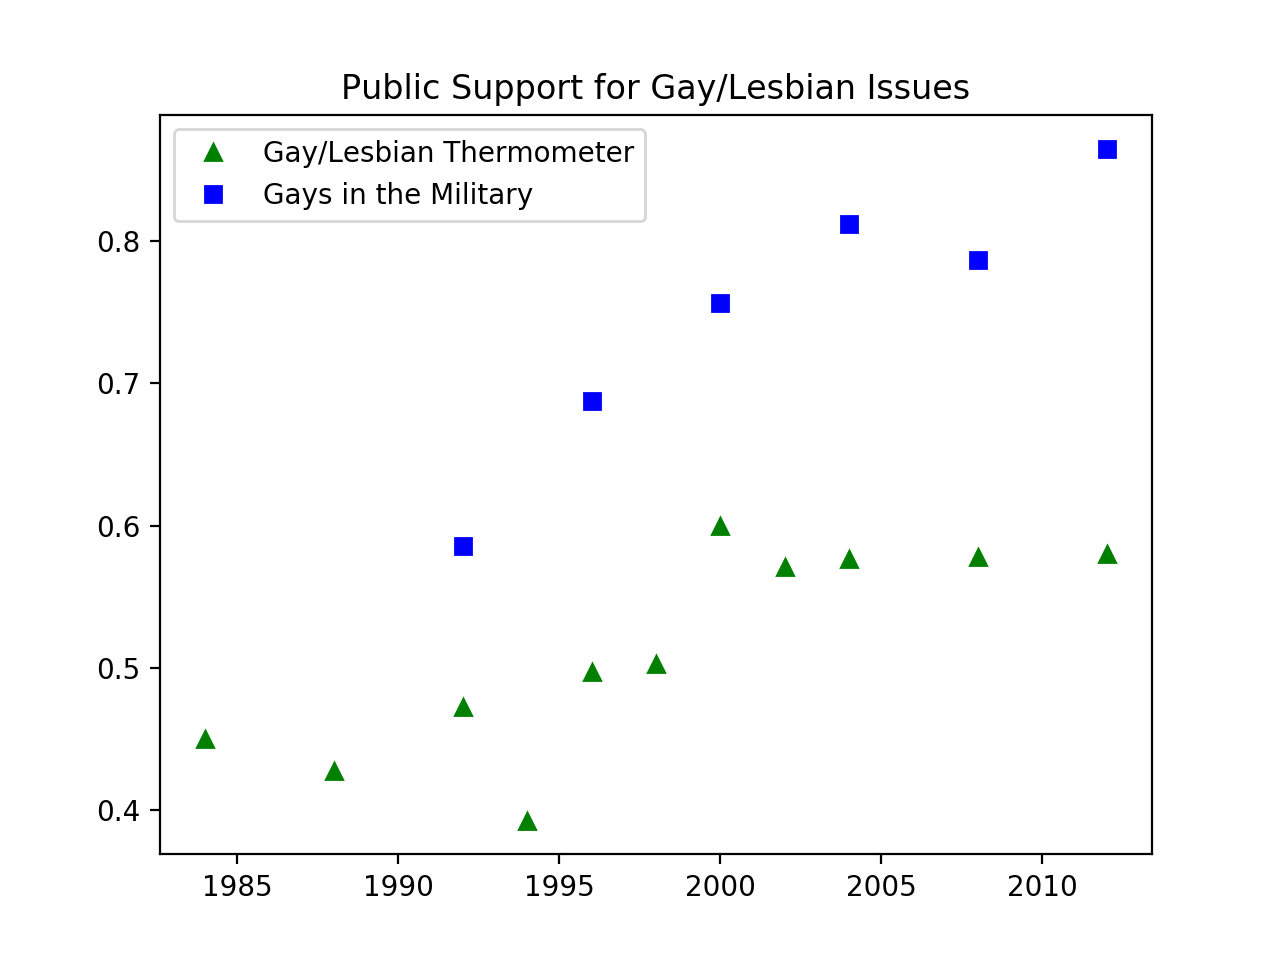
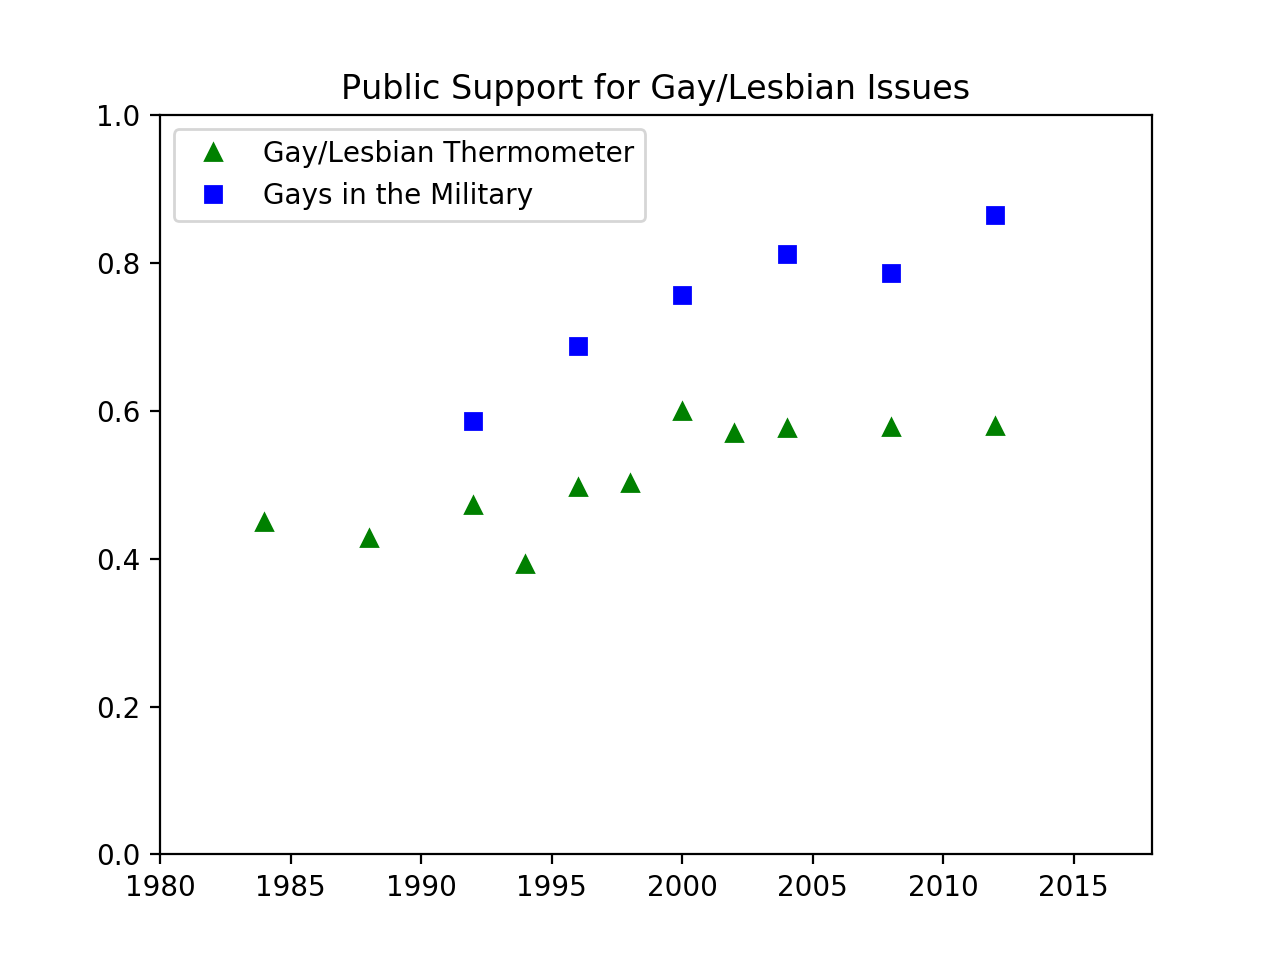
better plots

diff --git a/plots.py b/plots.py
@@ -1,6 +1,10 @@
 import matplotlib.pyplot as plt
 
+#public support for gay issues
 plt.plot(gay_temp_yr_avg.keys(),gay_temp_yr_avg.values(),'g^',label='Gay/Lesbian Thermometer')
 plt.plot(gay_mil_yr_avg.keys(),gay_mil_yr_avg.values(),'bs',label='Gays in the Military')
 plt.legend()
 plt.title('Public Support for Gay/Lesbian Issues')
+
+min_yr=min(list(gay_temp_yr_avg.keys())+list(gay_mil_yr_avg.keys()))
+plt.axis([min_yr-4, CURRENT_YEAR, 0.0, 1.0])

diff --git a/sc_po_anal.py b/sc_po_anal.py
@@ -5,8 +5,9 @@
 
 import numpy as np
 
-#global name for variable corresponding to year of survey
+#global names for year of survey variables
 SURVEY_YEAR='VCF0004'
+CURRENT_YEAR=2018
 SURVEY_YEARS=list(set(po_df[SURVEY_YEAR]))
 
 #the headers which are in justice data and not in case data
